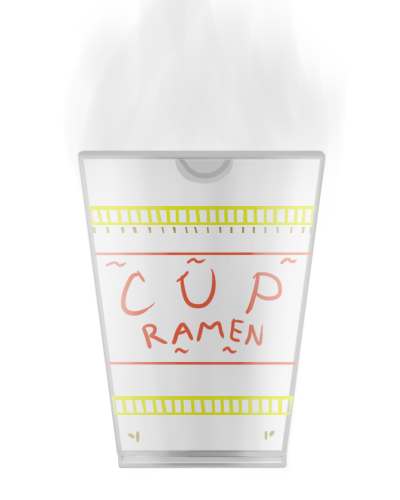
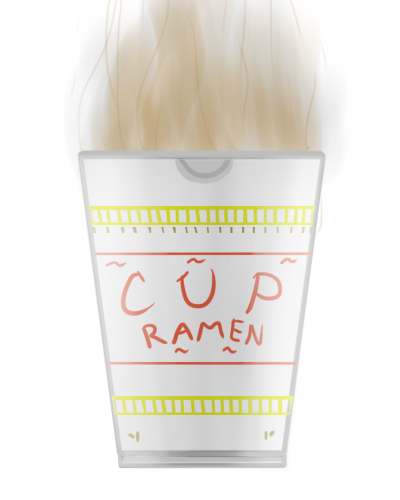
finished Swiping and changed art assets to make it more apparent when things are cooked.

Changed region(s): [[0.21, 0.0, 0.81, 0.3]]

diff --git a/Microscums/Assets/Scripts/startButton.cs b/Microscums/Assets/Scripts/startButton.cs
@@ -3,13 +3,15 @@ using System.Collections.Generic;
 using UnityEngine;
 
 public class startButton : MonoBehaviour {
-    GameObject closed, opened, control;
+    GameObject closed, opened, control, food;
+    GameObject[] foodItems;
 
     void Awake()
     {
         closed = GameObject.Find("closedMicrowave");
         opened = GameObject.Find("openMicrowave");
         control = GameObject.Find("microwaveControl");
+        food = GameObject.Find("Items");
     }
 	// Use this for initialization
 	void Start () {
@@ -35,6 +37,13 @@ public class startButton : MonoBehaviour {
             closed.SetActive(false);
             opened.SetActive(true);
             control.GetComponent<microControl>().door = false;
+            if (food.transform.childCount > 0)
+            {
+                foreach (Transform foodChild in food.transform)
+                {
+                    foodChild.GetComponent<foodItem>().time -= control.GetComponent<microControl>().swipes;
+                }
+            }
             control.GetComponent<microControl>().swipes = 0;
         }
     }

diff --git a/Microscums/Assets/Scripts/foodItem.cs b/Microscums/Assets/Scripts/foodItem.cs
@@ -13,6 +13,7 @@ public abstract class foodItem : MonoBehaviour {
     public int occupied = 0;
     public float trashcanX1, trashcanX2, trashcanY1, trashcanY2;
     public GameObject control;
+    public Sprite cooked, overCooked;
 
     private float offsetX, offsetY;
     
@@ -39,7 +40,14 @@ public abstract class foodItem : MonoBehaviour {
 	
 	// Update is called once per frame
 	public virtual void Update () {
-		
+        if (this.time == 0)
+        {
+            this.GetComponent<Image>().sprite = cooked;
+        }
+        if (this.time < 0)
+        {
+            this.GetComponent<Image>().sprite = overCooked;
+        }
 	}
 
     public virtual void beginDrag()

diff --git a/Microscums/Assets/Scripts/microControl.cs b/Microscums/Assets/Scripts/microControl.cs
@@ -26,7 +26,7 @@ public class microControl : MonoBehaviour {
 	
 	// Update is called once per frame
 	void Update () {
-		
+
 	}
 
 
